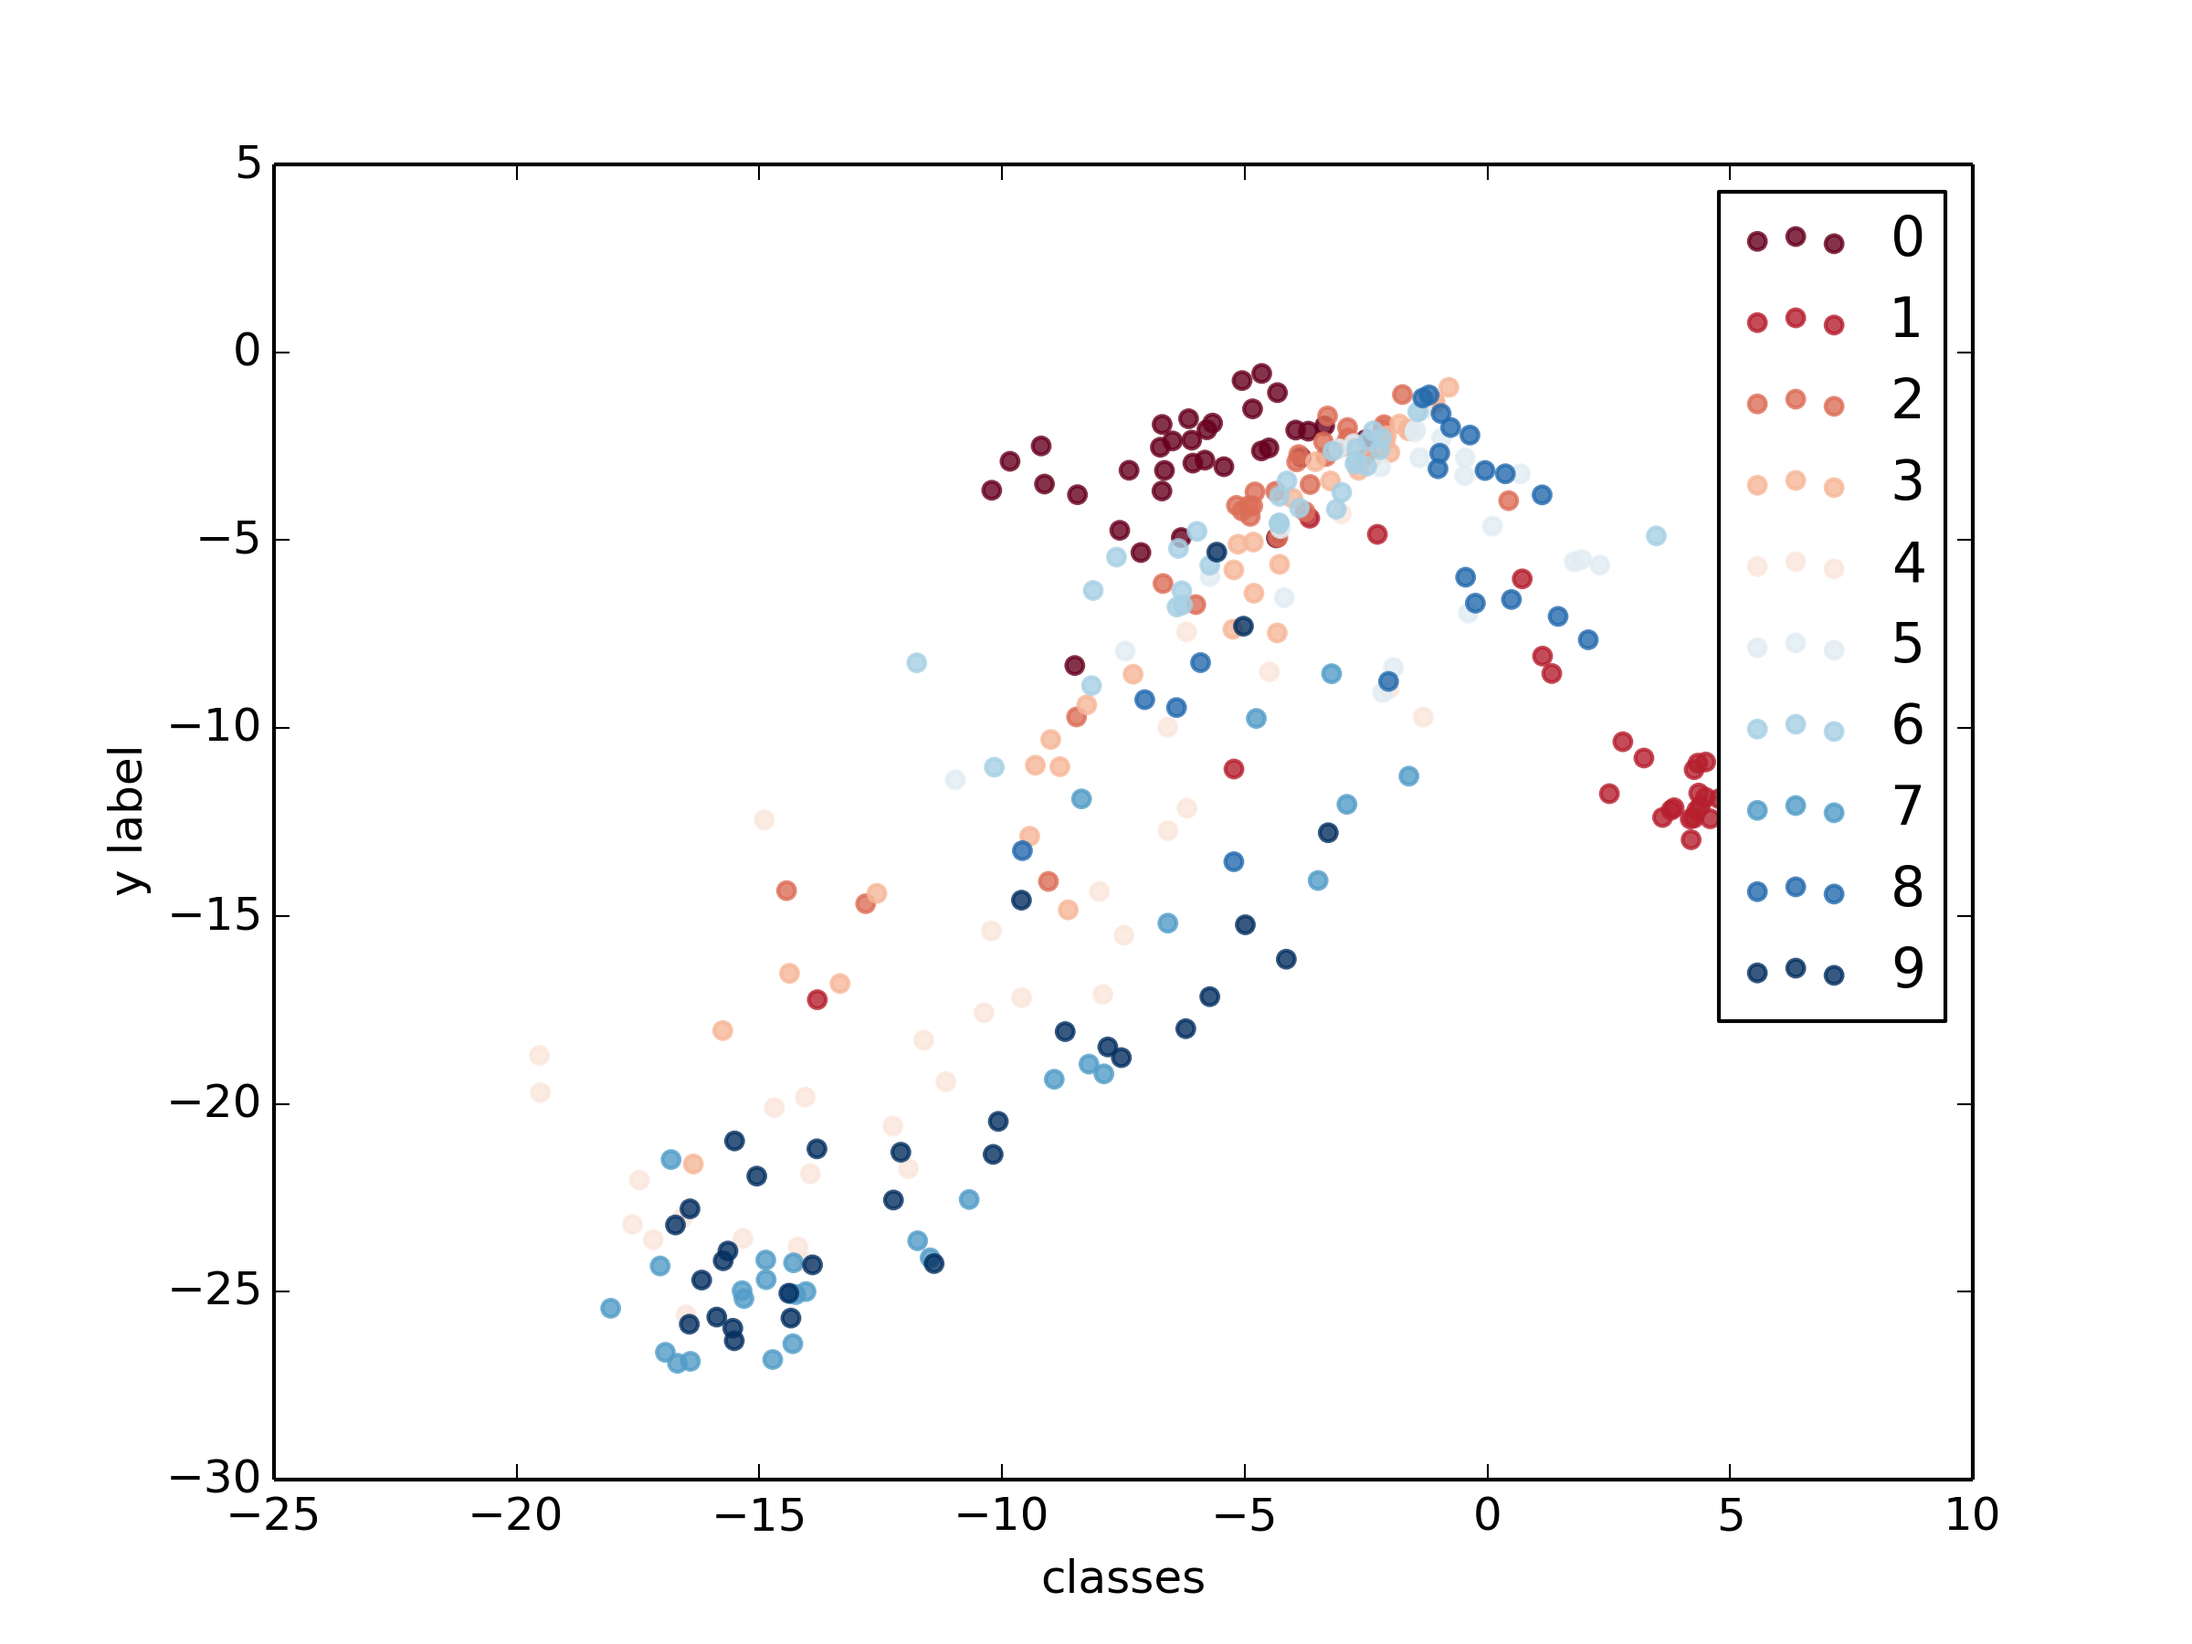
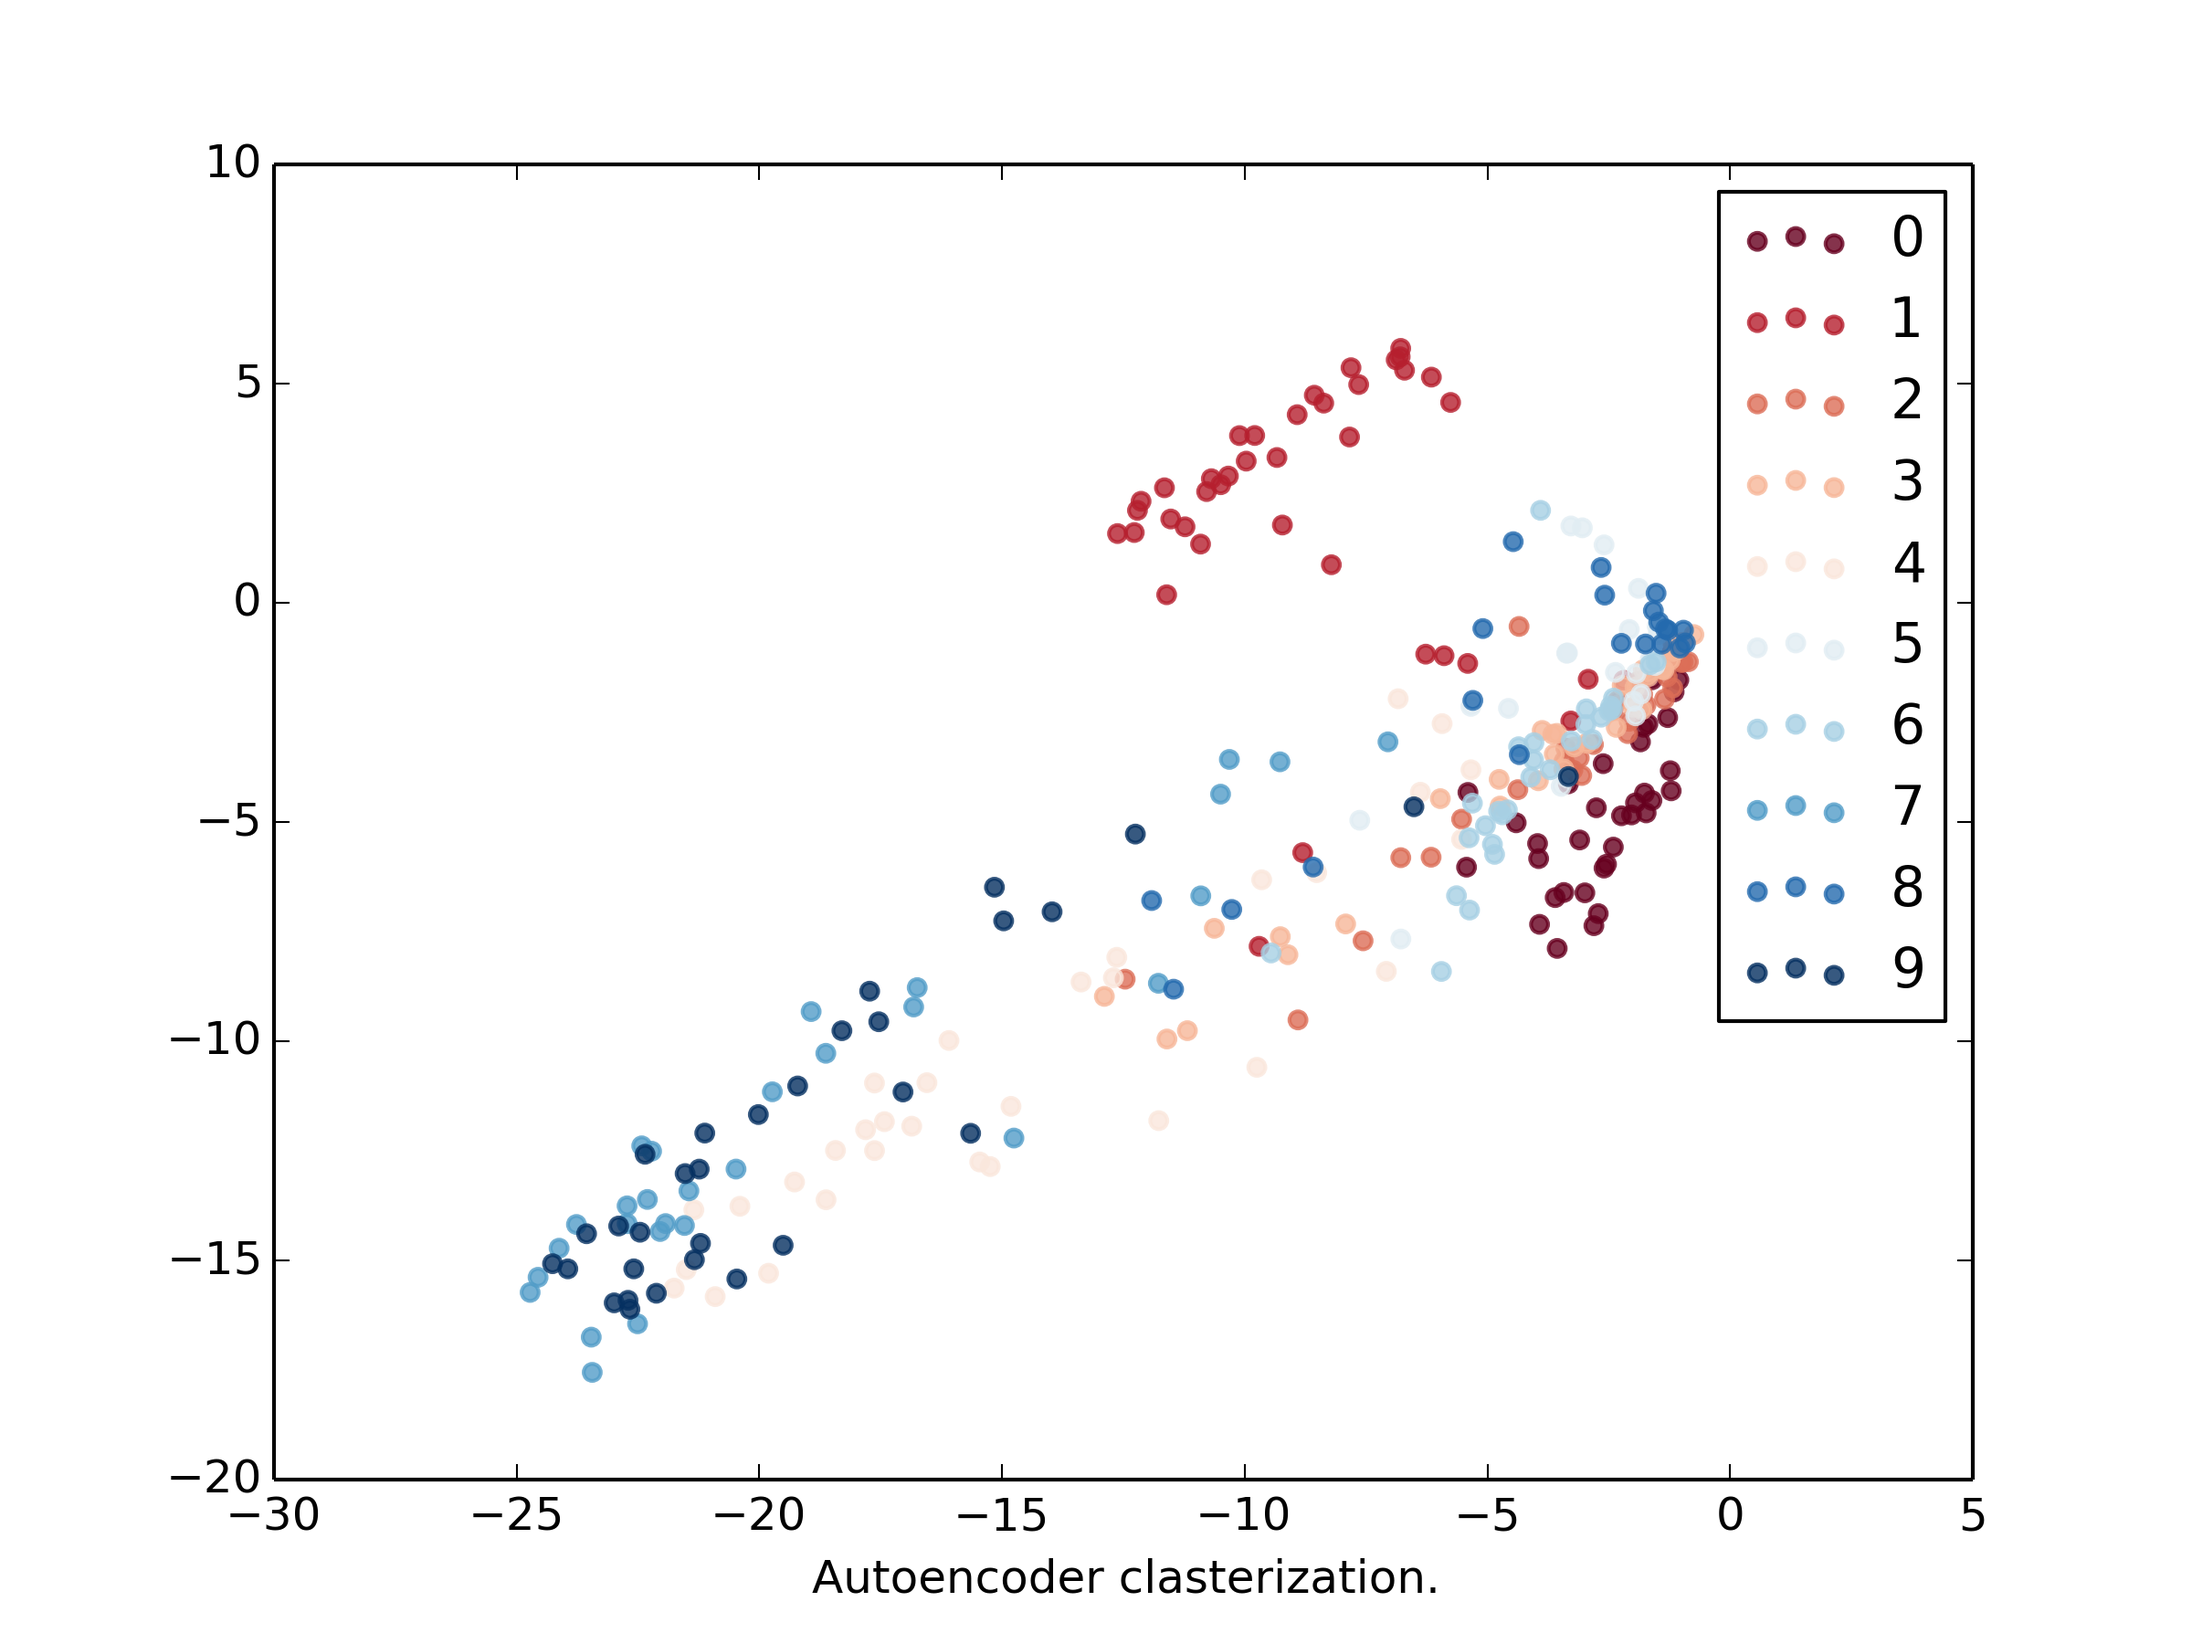
Improved README.

diff --git a/Autoencoder/Autoencoder.swift b/Autoencoder/Autoencoder.swift
@@ -67,8 +67,7 @@ func plot(tensor: [Float], labels: Tensor<Int32>, step: Int) {
         let y = tensor.enumerated().filter { yElementIndex.contains($0.offset) }.map { $0.element }
         ax.scatter(x: x, y: y, color: mappedColors[element], label: "\(element)", s: 20, alpha: 0.8)
     }
-    ax.set_xlabel("classes")
-    ax.set_ylabel("y label")
+    ax.set_xlabel("Autoencoder clasterization.")
     ax.legend()
     //plt.axis.dynamicallyCall(withArguments:[-0.3, 0.3, -0.3, 0.3])
     if !FileManager.default.fileExists(atPath: outputFolder) {

diff --git a/Autoencoder/README.md b/Autoencoder/README.md
@@ -2,12 +2,12 @@
 
 <p align="center">
 <img src="images/autoencoder-5.png">
-<p>Autoencoder claserization</p>
+<p>Autoencoder clasterization</p>
 </p>
 
 <p align="center">
-<img src="images/input-0.png" height="220" width="220">
-<img src="images/output-5.png" height="220" width="220">
+<img src="images/input-0.png" height="270" width="360">
+<img src="images/output-5.png" height="270" width="360">
 </p>
 
 This directory builds a simple autoencoder model.
